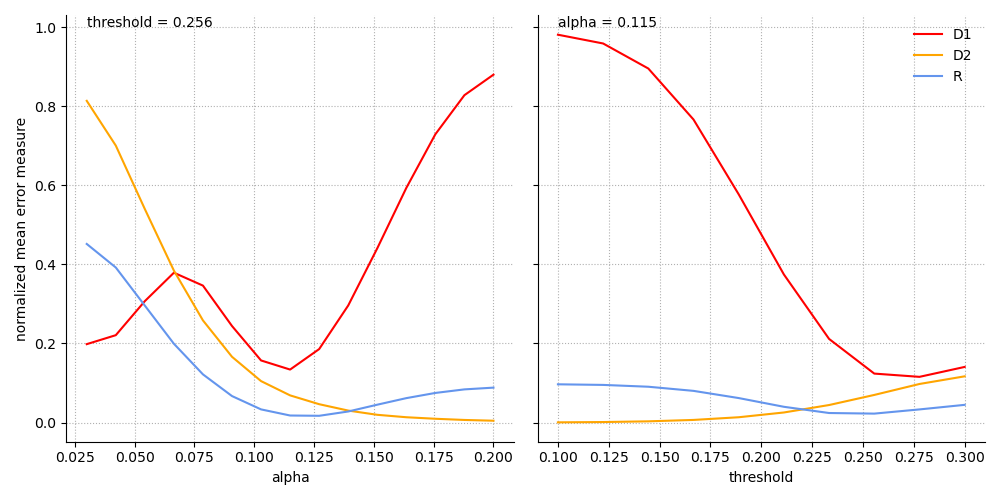
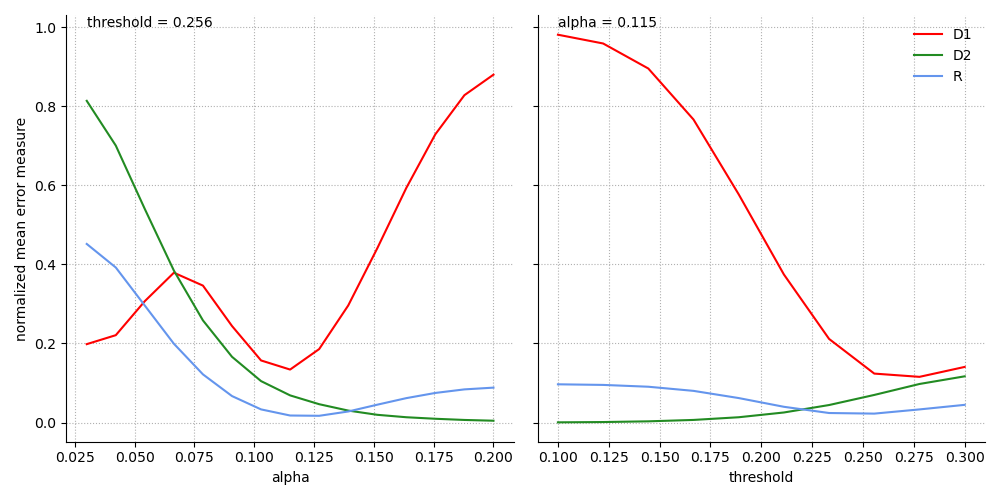
new foo

diff --git a/boze2.py b/boze2.py
@@ -148,26 +148,33 @@ for i in range(4):
 
     ax[0,i].scatter(space[:,0], space[:,1], c=proba[:,i], 
                 cmap='coolwarm', alpha=1, s=50)
+
+    ax[0,1].grid(ls=':')
     
-    ax[0,i].scatter(X[:,0], X[:,1], c='white', marker='o', s=1)
+    ax[0,i].scatter(X[:,0], X[:,1], c='white', marker='x', s=1)
 
     ax[0,i].set_xlim(-aa,aa)
     ax[0,i].set_ylim(-aa,aa)
     
     ax[1,i].set_xticks([])
     ax[1,i].set_yticks([])
+    ax[1,i].spines['top'].set_visible(False)
+    ax[1,i].spines['right'].set_visible(False)
 
 axx = plt.subplot(2,1,2)
 for i in range(4):
-    axx.plot(str_probas[:,i], color = plt.cm.coolwarm(np.linspace(0,1,4))[i], label = 'output %i' % i)
+    axx.plot(str_probas[:,i], color = 'black', ls=['-', ':', '--', '-.'][i], label = 'output %i' % i, lw=1)
     
 axx.legend(frameon=False, loc=9, ncol=4)
+axx.spines['top'].set_visible(False)
+axx.spines['right'].set_visible(False)
 
 drfs = get_real_drfs(_n_chunks, 10)
 axx.set_xticks(drfs, drfs.astype(int))
-r = 0.003
+r = 0.0025
 axx.set_ylim(np.min(str_probas)-0.3*r, np.max(str_probas)+r)
 axx.grid(ls=':')
+axx.set_xlim(0,250)
 
 plt.tight_layout()
 plt.savefig('foo.png')

diff --git a/plot_e1_reduced.py b/plot_e1_reduced.py
@@ -73,7 +73,7 @@ fig, ax = plt.subplots(1,2,figsize=(10,5), sharey=True)
 
 s = 1.2
 ax[0].plot(_alpha, gaussian_filter(rr[:,th_id,0],s), label= 'D1', color='red')
-ax[0].plot(_alpha, gaussian_filter(rr[:,th_id,1],s), label= 'D2', color='orange')
+ax[0].plot(_alpha, gaussian_filter(rr[:,th_id,1],s), label= 'D2', color='forestgreen')
 ax[0].plot(_alpha, gaussian_filter(rr[:,th_id,2],s), label= 'R', color='cornflowerblue')
 
 # ax[0].legend(frameon=False)
@@ -85,7 +85,7 @@ ax[0].text(_alpha[0], 1, 'threshold = %0.3f' % _th[th_id])
 ####
 
 ax[1].plot(_th, gaussian_filter(rr[a_id,:,0],s), label= 'D1', color='red')
-ax[1].plot(_th, gaussian_filter(rr[a_id,:,1],s), label= 'D2', color='orange')
+ax[1].plot(_th, gaussian_filter(rr[a_id,:,1],s), label= 'D2', color='forestgreen')
 ax[1].plot(_th, gaussian_filter(rr[a_id,:,2],s), label= 'R', color='cornflowerblue')
 
 ax[1].legend(frameon=False)
